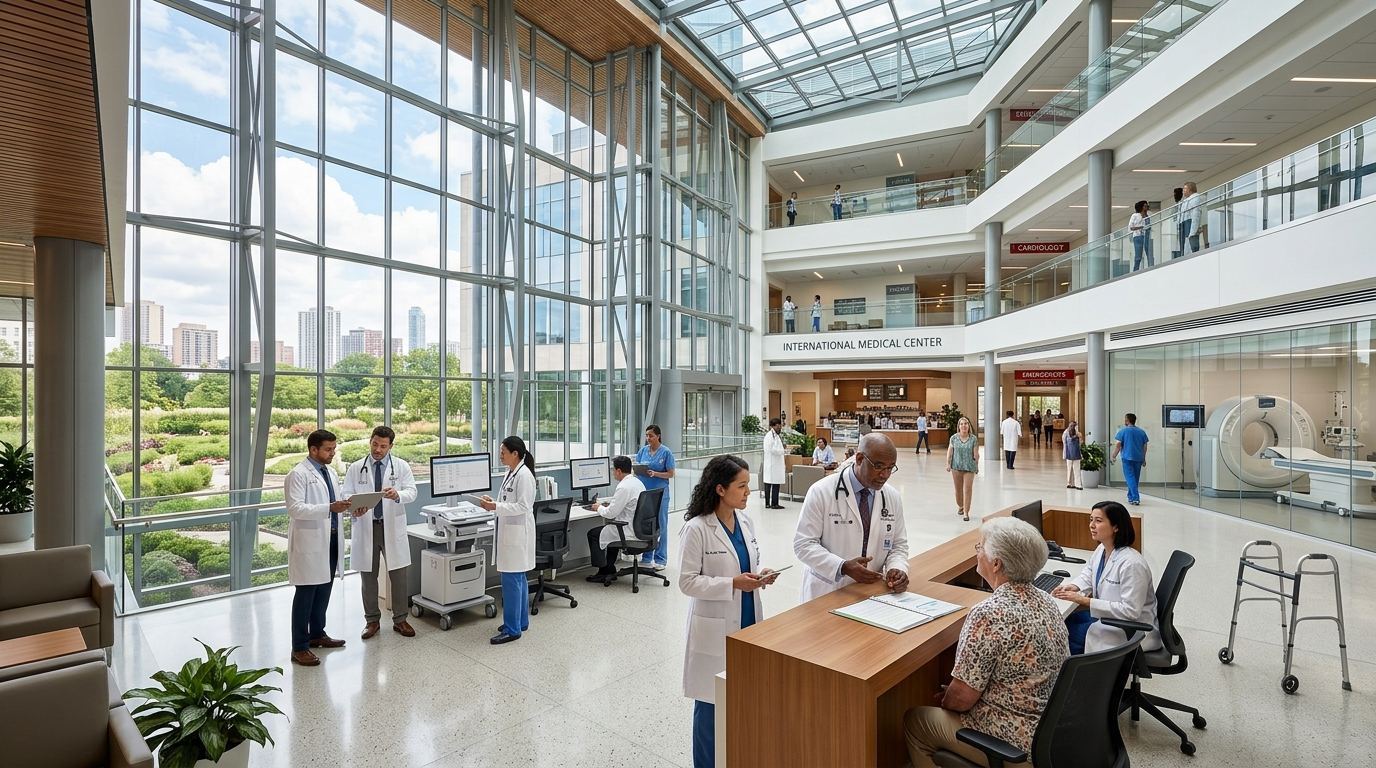
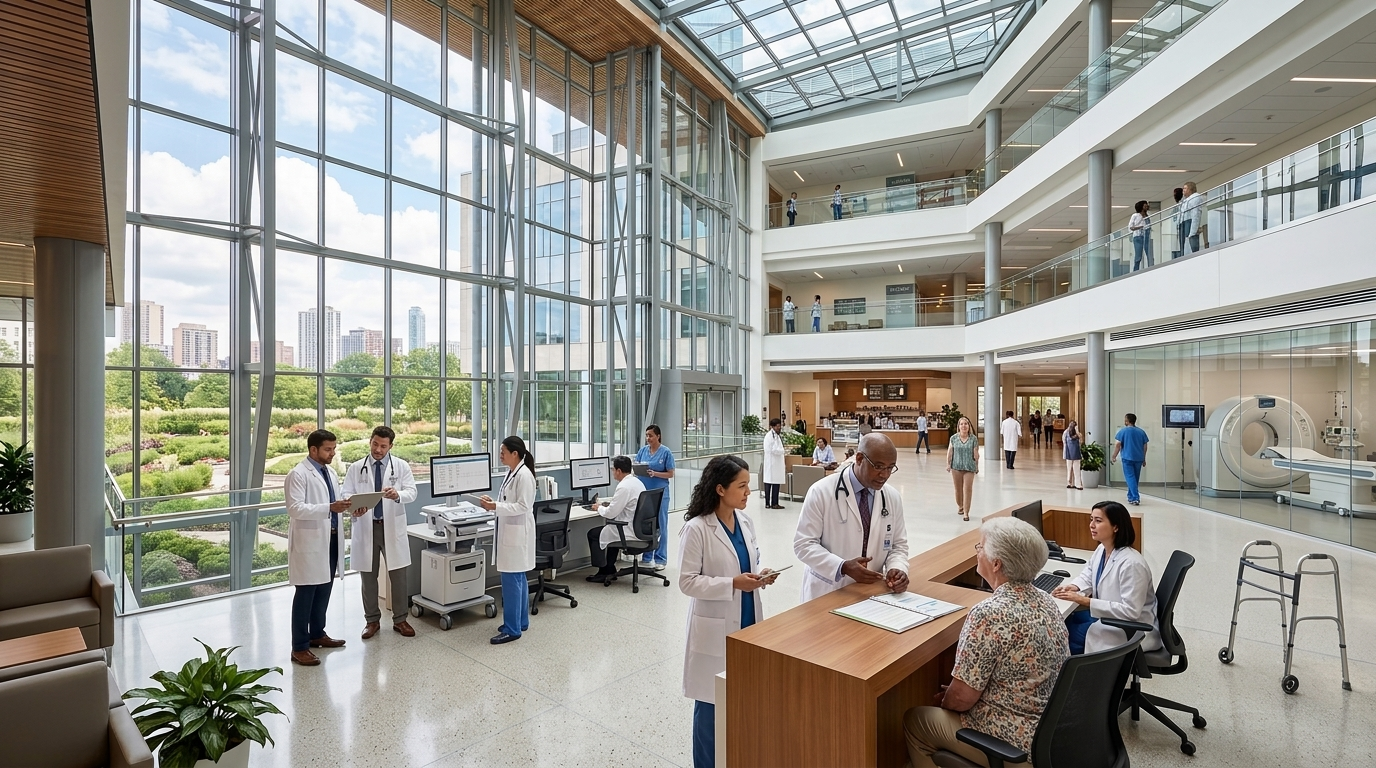
feat: remove architectural text from hero image, remove abroad phrasing, and add 100% glassmorphism panel

diff --git a/src/routes/index.tsx b/src/routes/index.tsx
@@ -25,16 +25,16 @@ export const Route = createFileRoute("/")({
   loader: () => getHome(),
   head: () => ({
     meta: [
-      { title: "MedJourney | Treatment options abroad" },
+      { title: "MedJourney | Specialized Medical Care & Treatments" },
       {
         name: "description",
         content:
-          "Find information about treatments, hospitals and doctors abroad. Send an enquiry to discuss your options with a coordinator.",
+          "Find information about treatments, accredited hospitals, and expert doctors. Connect with a patient coordinator to discuss your options.",
       },
-      { property: "og:title", content: "MedJourney | Treatment options abroad" },
+      { property: "og:title", content: "MedJourney | Specialized Medical Care & Treatments" },
       {
         property: "og:description",
-        content: "Treatment information and help with planning care abroad.",
+        content: "Treatment information and personalized guidance for your medical journey.",
       },
       { property: "og:type", content: "website" },
       { name: "twitter:card", content: "summary_large_image" },
@@ -68,24 +68,24 @@ function Home() {
       <section className="home-hero border-b border-border/40">
         <img
           src="/images/hero.jpg"
-          alt="MedJourney International Medical Center"
+          alt="MedJourney Healthcare Center"
           width={1920}
           height={1080}
           className="home-hero-image"
           fetchPriority="high"
         />
         <div className="container-page relative z-10 w-full">
-          <div className="home-hero-panel shadow-lg">
-            <p className="eyebrow">Treatment abroad</p>
-            <h1 className="home-hero-title mt-3 font-semibold text-ink">
+          <div className="home-hero-panel">
+            <span className="home-hero-eyebrow">Medical Care & Treatments</span>
+            <h1 className="home-hero-title mt-3.5 font-semibold text-ink">
               {settings?.site_name || BRAND.name}
             </h1>
             <p className="home-hero-subtitle mt-3 font-display leading-snug text-foreground/90">
               A conversation is a good place to start.
             </p>
             <p className="home-hero-text mt-3 text-muted-foreground leading-relaxed">
-              Looking into treatment in another country? Browse accredited hospitals, certified specialists,
-              ask your questions, and take the time you need to decide.
+              Explore accredited hospitals, certified specialists, and verified treatment options.
+              Ask your questions and receive clear, personalized guidance tailored to your needs.
             </p>
             <form
               role="search"
@@ -99,22 +99,22 @@ function Home() {
               <label htmlFor="hero-search" className="sr-only">
                 Search treatments
               </label>
-              <div className="flex gap-2 rounded-xl border border-input bg-card p-1.5 shadow-xs focus-within:border-primary transition-colors">
-                <div className="flex min-w-0 flex-1 items-center gap-2 px-2">
-                  <Search className="h-5 w-5 text-muted-foreground" aria-hidden />
+              <div className="home-hero-search flex gap-2 rounded-xl p-1.5">
+                <div className="flex min-w-0 flex-1 items-center gap-2.5 px-3">
+                  <Search className="h-5 w-5 text-muted-foreground shrink-0" aria-hidden />
                   <input
                     id="hero-search"
                     value={q}
                     onChange={(e) => setQ(e.target.value)}
-                    placeholder="Which treatment are you considering?"
-                    className="h-10 sm:h-11 w-full bg-transparent text-foreground outline-none placeholder:text-muted-foreground text-sm sm:text-base"
+                    placeholder="Search medical treatments or procedures..."
+                    className="h-10 sm:h-11 w-full bg-transparent text-foreground outline-none placeholder:text-muted-foreground text-sm sm:text-base font-normal"
                     autoComplete="off"
                   />
                 </div>
                 <Button
                   type="submit"
                   size="icon"
-                  className="h-10 w-10 sm:h-11 sm:w-11 shrink-0 rounded-lg"
+                  className="h-10 w-10 sm:h-11 sm:w-11 shrink-0 rounded-lg shadow-sm"
                   aria-label="Search treatments"
                 >
                   <ArrowRight className="h-5 w-5" />

diff --git a/src/styles.css b/src/styles.css
@@ -194,8 +194,49 @@
   max-width: clamp(20rem, 92vw, 38rem);
   padding: clamp(1.25rem, 3.5vw, 2.5rem);
   border-radius: clamp(1rem, 2vw, 1.5rem);
-  background: color-mix(in srgb, var(--color-card) 94%, transparent);
-  border: 1px solid var(--color-border);
+  background: rgba(255, 255, 255, 0.45);
+  backdrop-filter: blur(24px) saturate(190%);
+  -webkit-backdrop-filter: blur(24px) saturate(190%);
+  border: 1px solid rgba(255, 255, 255, 0.75);
+  box-shadow:
+    0 20px 50px -12px rgba(15, 35, 25, 0.15),
+    0 1px 3px 0 rgba(0, 0, 0, 0.04),
+    inset 0 1px 1.5px 0 rgba(255, 255, 255, 0.95),
+    inset 0 -1px 1px 0 rgba(255, 255, 255, 0.25);
+}
+
+.home-hero-search {
+  background: rgba(255, 255, 255, 0.75);
+  backdrop-filter: blur(12px);
+  -webkit-backdrop-filter: blur(12px);
+  border: 1px solid rgba(255, 255, 255, 0.9);
+  box-shadow:
+    0 2px 10px rgba(0, 0, 0, 0.03),
+    inset 0 1px 2px rgba(255, 255, 255, 0.85);
+  transition: all 180ms ease;
+}
+
+.home-hero-search:focus-within {
+  background: rgba(255, 255, 255, 0.95);
+  border-color: var(--color-primary);
+  box-shadow:
+    0 4px 16px rgba(24, 75, 61, 0.1),
+    inset 0 1px 2px rgba(255, 255, 255, 1);
+}
+
+.home-hero-eyebrow {
+  display: inline-flex;
+  align-items: center;
+  gap: 0.375rem;
+  padding: 0.25rem 0.75rem;
+  border-radius: 9999px;
+  background: rgba(24, 75, 61, 0.08);
+  border: 1px solid rgba(24, 75, 61, 0.18);
+  font-size: 0.75rem;
+  font-weight: 700;
+  letter-spacing: 0.05em;
+  text-transform: uppercase;
+  color: var(--color-primary);
 }
 
 .home-hero-title {

diff --git a/src/routes/__root.tsx b/src/routes/__root.tsx
@@ -91,17 +91,17 @@ export const Route = createRootRouteWithContext<{ queryClient: QueryClient }>()(
     meta: [
       { charSet: "utf-8" },
       { name: "viewport", content: "width=device-width, initial-scale=1" },
-      { title: "MedJourney — Treatment abroad, coordinated" },
+      { title: "MedJourney — Specialized Healthcare & Treatments" },
       {
         name: "description",
         content:
-          "Explore treatments, hospitals and doctors abroad and request a personalised estimate from a patient coordinator.",
+          "Explore treatments, accredited hospitals and certified specialists, and request a personalized assessment from a coordinator.",
       },
-      { property: "og:title", content: "MedJourney — Treatment abroad, coordinated" },
+      { property: "og:title", content: "MedJourney — Specialized Healthcare & Treatments" },
       {
         property: "og:description",
         content:
-          "Explore treatments, hospitals and doctors abroad and request a personalised estimate.",
+          "Explore treatments, accredited hospitals and certified specialists, and request a personalized assessment.",
       },
       { property: "og:type", content: "website" },
       { name: "twitter:card", content: "summary_large_image" },
